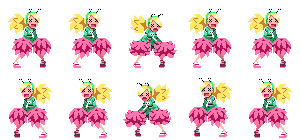
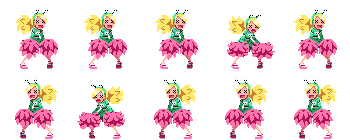
에너미매니저 내용추가
스쿨걸 스쿨보이 추가

diff --git a/RiverCityGirls/enemyManager.cpp b/RiverCityGirls/enemyManager.cpp
@@ -7,6 +7,9 @@ HRESULT EnemyManager::init()
 	_schoolBoy = new SchoolBoy;
 	_schoolBoy->init();
 
+	_SchoolGirl = new SchoolGirl;
+	_SchoolGirl->init();
+
 	return S_OK;
 }
 
@@ -17,11 +20,13 @@ void EnemyManager::release()
 void EnemyManager::update()
 {
 	_schoolBoy->update();
+	_SchoolGirl->update();
 }
 
 void EnemyManager::render()
 {
 	_schoolBoy->render();
+	_SchoolGirl->render();
 }
 
 void EnemyManager::setEnemy()

diff --git a/RiverCityGirls/enemyManager.h b/RiverCityGirls/enemyManager.h
@@ -1,6 +1,7 @@
 #pragma once
 #include "GameNode.h"
 #include "SchoolBoy.h"
+#include "schoolGirl.h"
 #include <vector>
 
 class Enemy;
@@ -9,6 +10,7 @@ class EnemyManager : public GameNode
 {
 private:
 	SchoolBoy* _schoolBoy;
+	SchoolGirl* _SchoolGirl;
 
 	typedef vector<Enemy*>				vEnemy;
 	typedef vector<Enemy*>::iterator	viEnemy;
